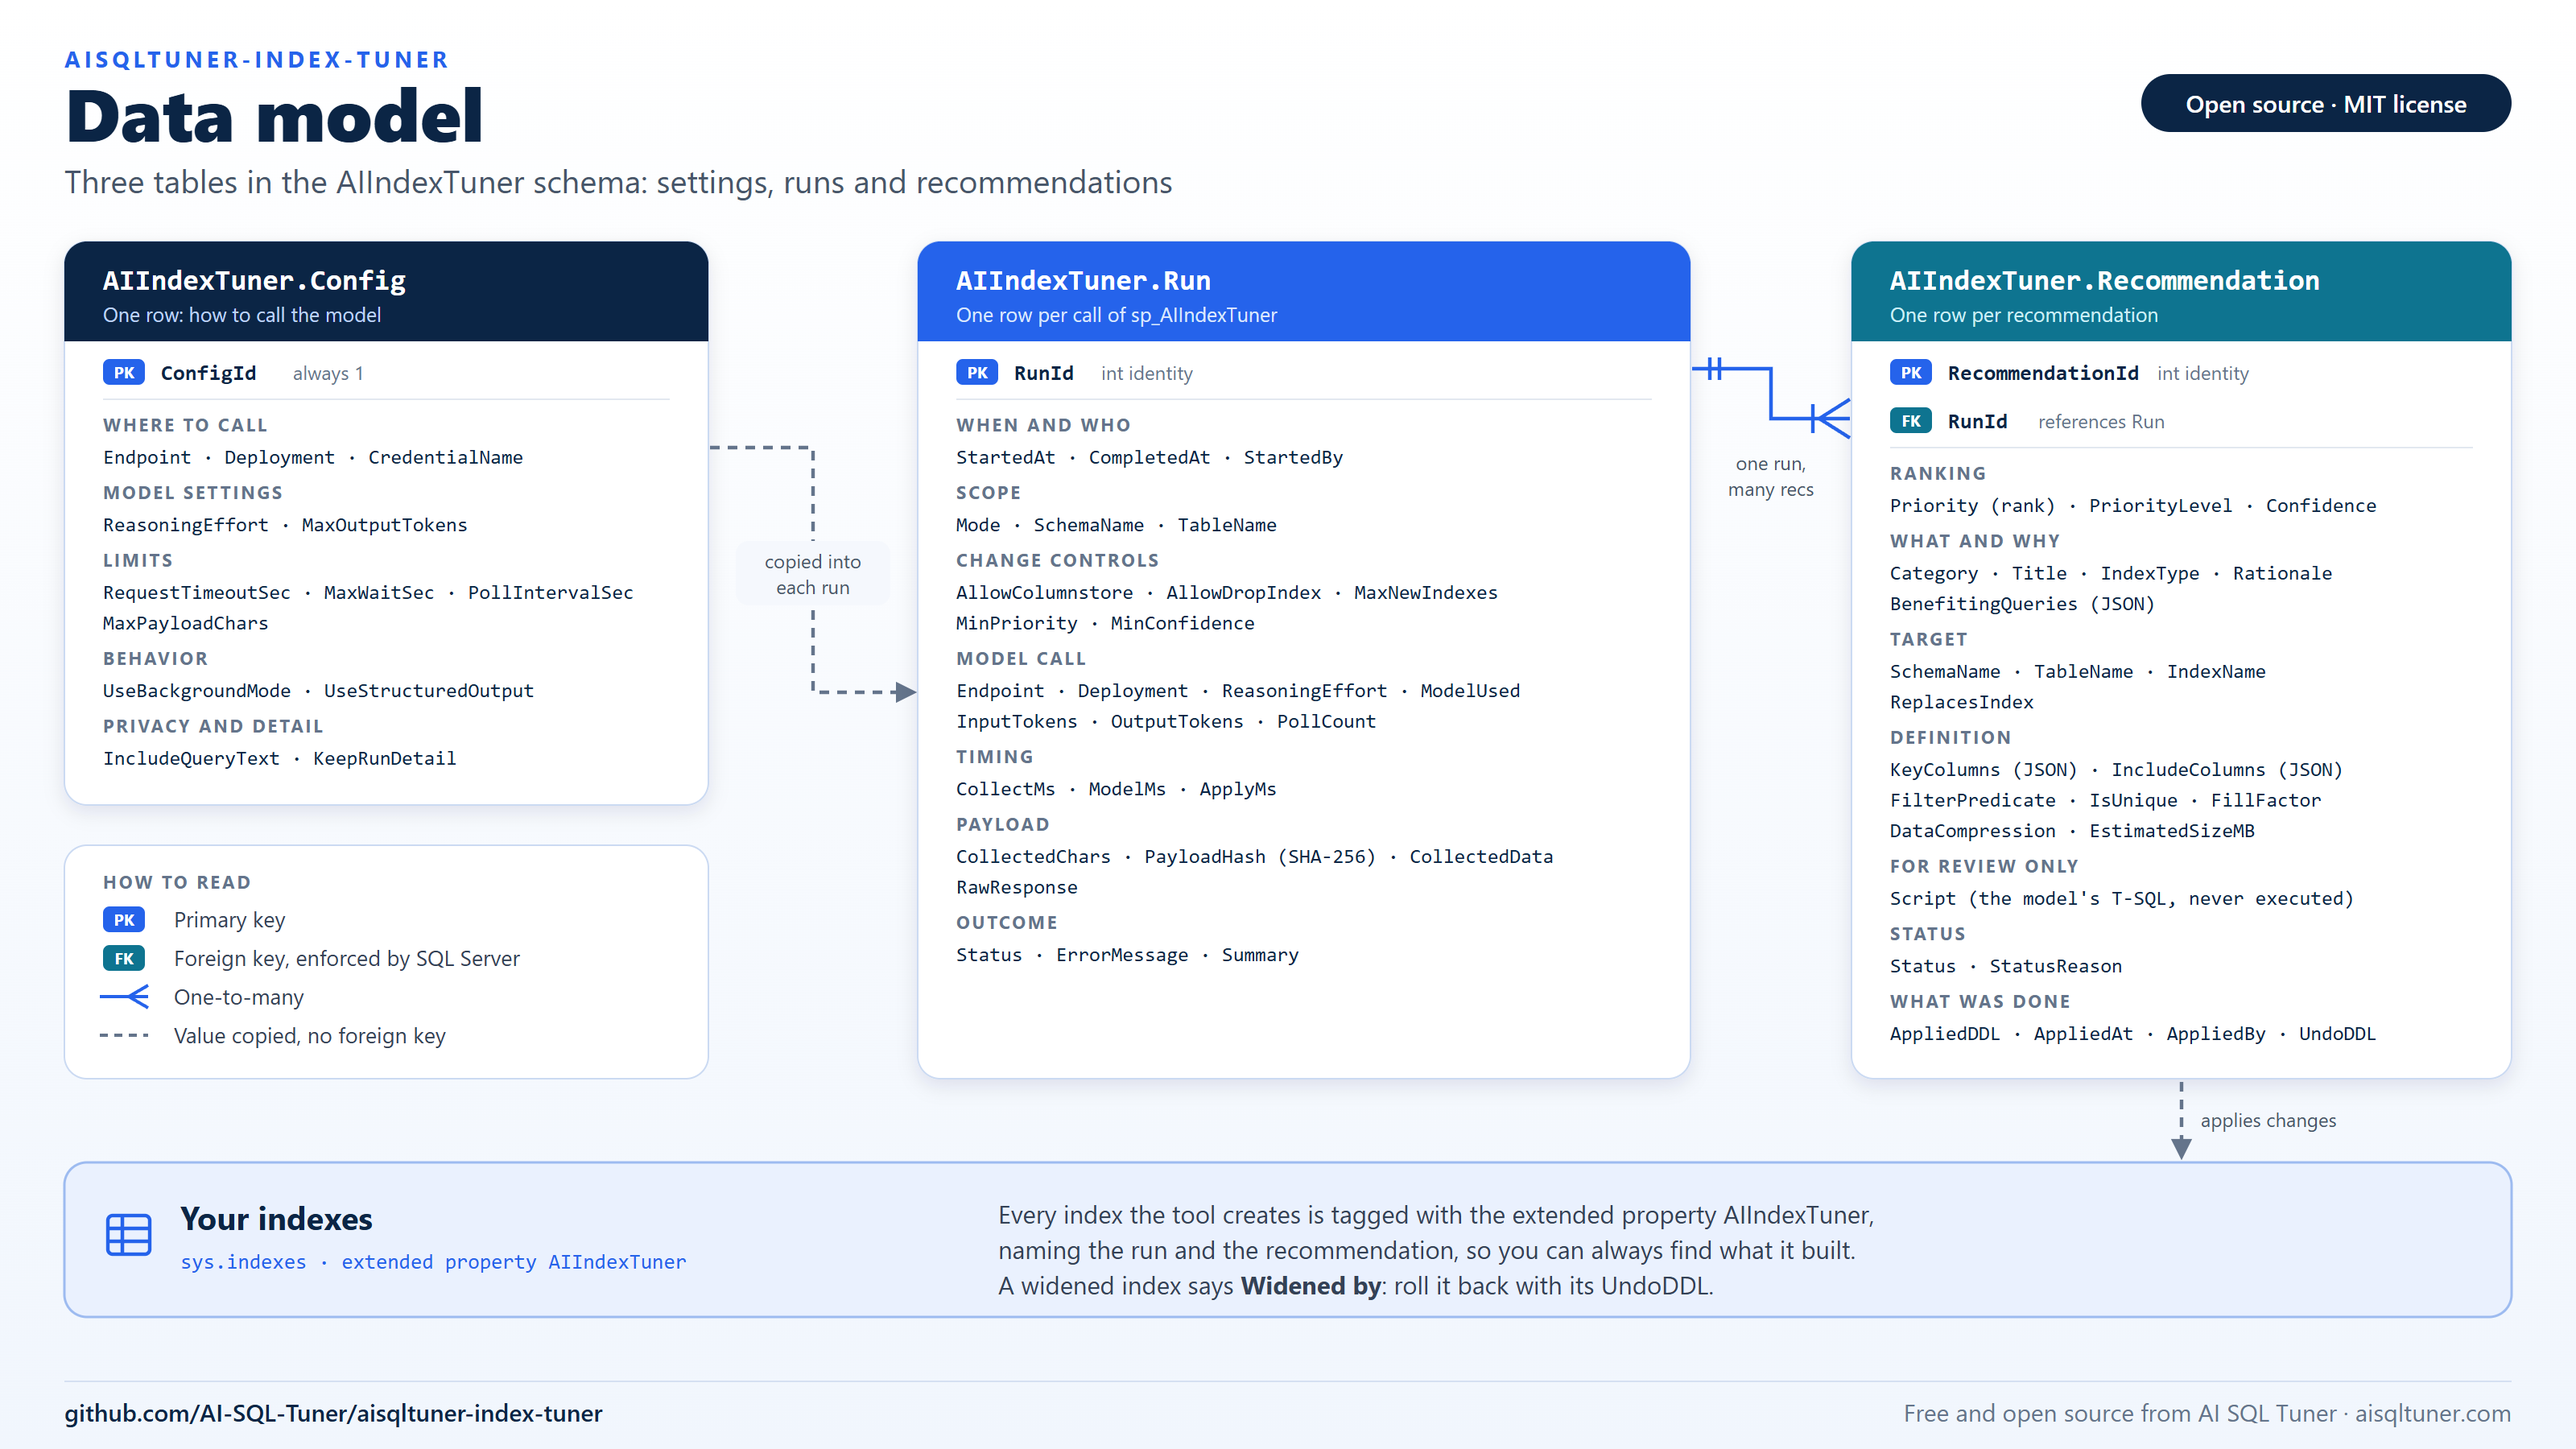
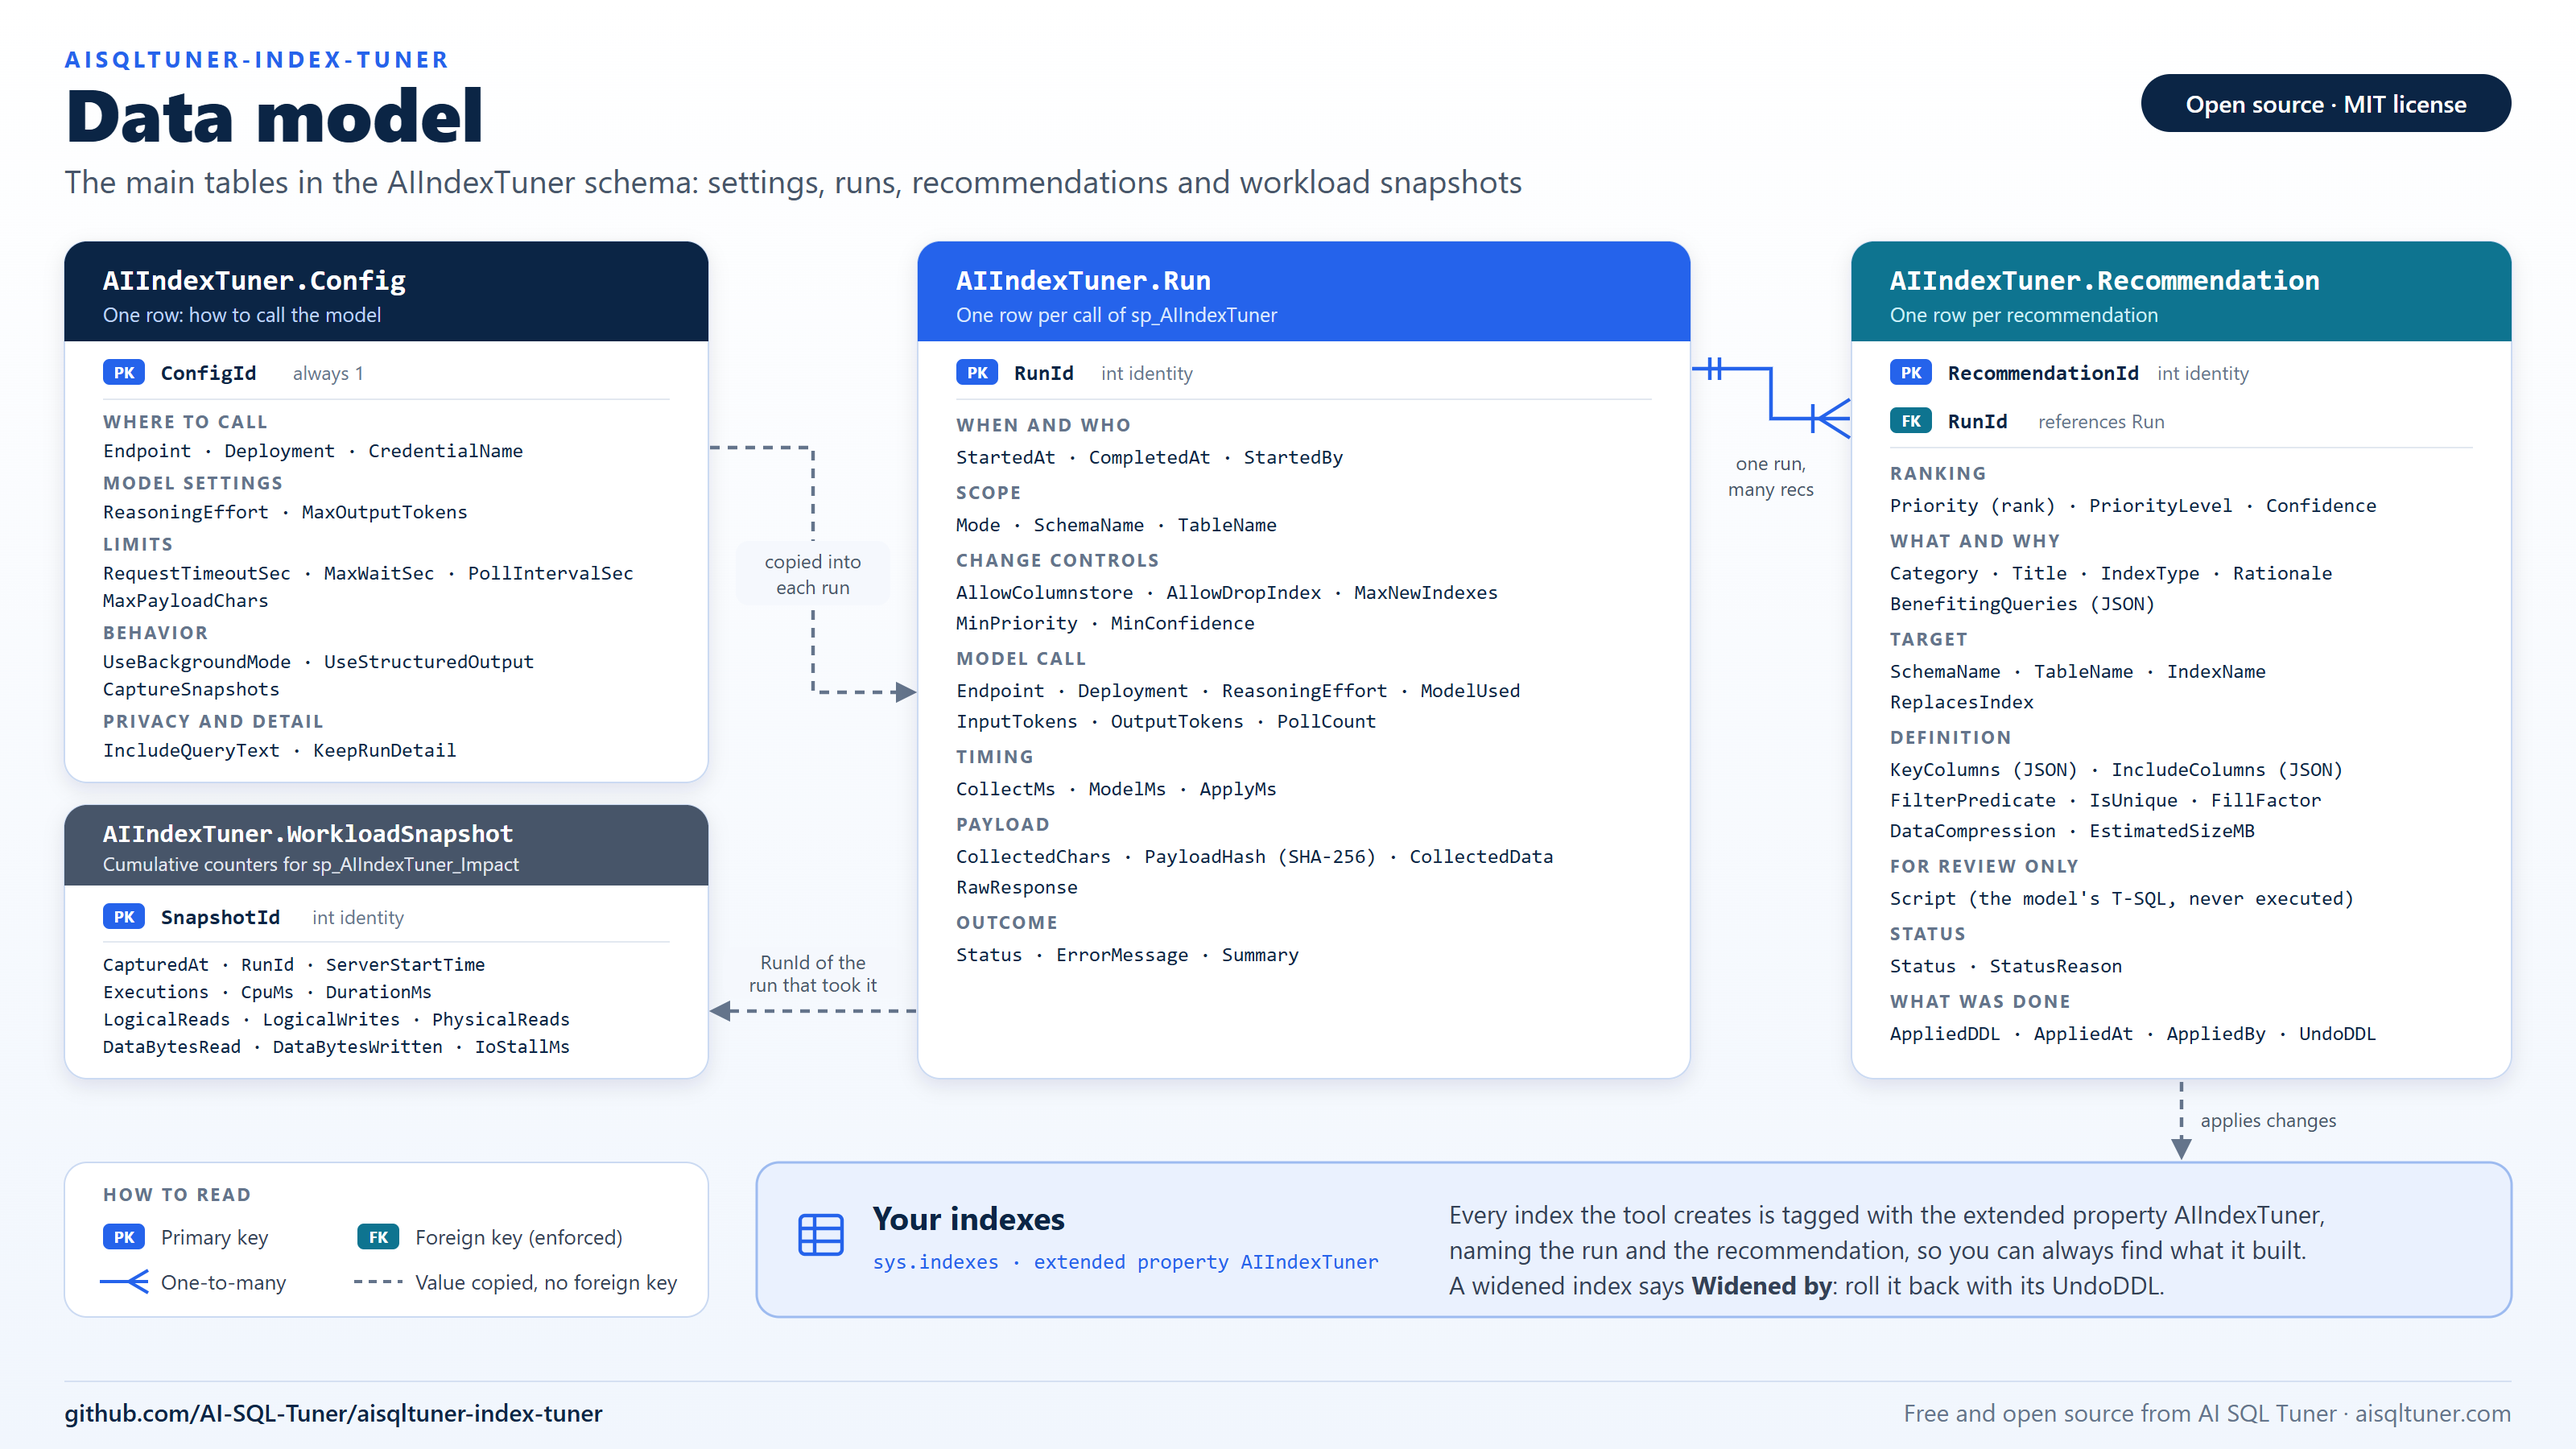
Add WorkloadSnapshot and CaptureSnapshots to the data model diagram (#72)

diff --git a/diagrams/README.md b/diagrams/README.md
@@ -8,7 +8,7 @@ Each comes as an SVG (sharp at any size, editable in a text editor) and a 3200 x
 |---|---|---|
 | **Architecture** | What lives where: the stored procedures and tables inside your database, the diagnostic sources they read, and the one outside service they call | [SVG](architecture.svg), [PNG](architecture.png) |
 | **Data flow** | How data moves through the five steps, from collection to a verified index with an undo script, and where `RECOMMEND` stops and `CREATE` continues | [SVG](data-flow.svg), [PNG](data-flow.png) |
-| **Data model** | The three `AIIndexTuner` tables, their columns by purpose, the foreign key from `Recommendation` to `Run`, and the extended property that tags the indexes the tool creates | [SVG](data-model.svg), [PNG](data-model.png) |
+| **Data model** | The main `AIIndexTuner` tables (`Config`, `Run`, `Recommendation` and `WorkloadSnapshot`), their columns by purpose, the foreign key from `Recommendation` to `Run`, and the extended property that tags the indexes the tool creates | [SVG](data-model.svg), [PNG](data-model.png) |
 | **Recommendation types** | The nine recommendation categories, and which can be applied automatically, which only when you allow it, and which always stay for review. Shows that the output covers more than new indexes | [SVG](recommendation-types.svg), [PNG](recommendation-types.png) |
 
 ![Architecture](architecture.png)
